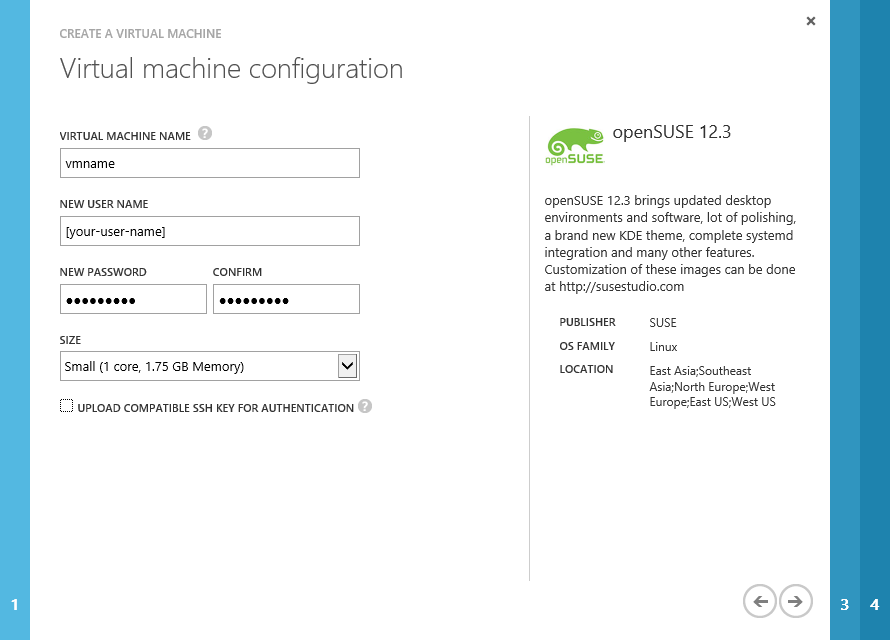
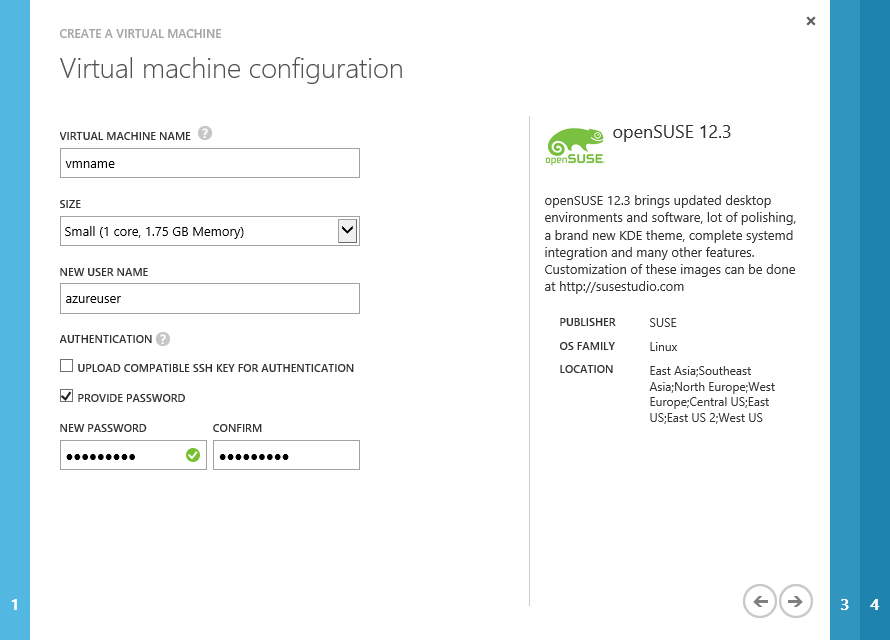
Updated LAMP instructions

diff --git a/HOL.md b/HOL.md
@@ -53,7 +53,6 @@ In this exercise, you will learn how to provision a Linux Virtual Machine in the
 
 1. Open Internet Explorer and browse [https://manage.windowsazure.com](https://manage.windowsazure.com) to enter the Windows Azure portal. Then, log in with your credentials.
 1. In the menu located at the bottom, select **Compute** | **New Virtual Machine | From Gallery** to start creating a new virtual machine.
-
 	 
 	![Creating a new Virtual Machine](Images/creating-a-new-virtual-machine.png?raw=true)
 
@@ -65,9 +64,9 @@ In this exercise, you will learn how to provision a Linux Virtual Machine in the
 	 
 	_Selecting OpenSUSE from the image list_
 
-1. In the **Virtual machine Configuration** page, enter a **Virtual Machine Name**, provide a user name for the **New User Name** field and a password for the **New Password** and **Confirm Password** fields. Lastly, set the Virtual Machine **Size** to _Small_ and click **Next** to continue.
+1. In the **Virtual Machine Configuration** page, enter a **Virtual Machine Name**. In the **Authentication** section, uncheck **Upload compatible ssh key for authentication** and check **Provide password**. Provide a password for the **New Password** and **Confirm Password** fields. Lastly, set the Virtual Machine **Size** to _Small_ and click **Next** to continue.
 
-	![Configuring a Custom VM](Images/creating-a-vm-configuration.png?raw=true)	
+	![Configuring a Custom Virtual Machine](Images/creating-a-vm-configuration.png?raw=true)	
 	 
 	_Creating a Virtual Machine - Configuration_
  
@@ -83,7 +82,7 @@ In this exercise, you will learn how to provision a Linux Virtual Machine in the
  
 1. In the **Virtual Machine Options** page, click the button to create a new Virtual Machine.
 
-	![Creating a VM - VM Options](Images/creating-a-vm--vm-options.png?raw=true "Creating a VM - VM Options")
+	![Creating a VM - VM Options](Images/creating-a-vm--vm-options.png?raw=true "Creating a Virtual Machine - Virtual Machine Options")
 
 	_Creating a Virtual Machine - Virtual Machine Options_
  
@@ -167,90 +166,70 @@ In this exercise, you will learn how to install and configure a Web Server in th
 
 In this task, you will install and configure an Apache HTTP Server and MySQL Database Management System.
 
-1. Install **Yast2**. In the terminal, execute the following commands to install the required packages.
+1. In the terminal, execute the following commands to install the required packages.
 
 	````Linux
-	zypper install yast2
-	zypper install yast2-ncurses
-	zypper install yast2-ncurses-pkg
-	zypper install yast2-qt
-	zypper install yast2-gtk
-	zypper install yast2-packager
-	zypper install yast2-network
-	zypper install yast2-http-server
-	zypper install yast2-runlevel
+	zypper install -t pattern lamp_server
 	````
 
-	>**Note**: If you get the following prompt "Do you want to reject the key, trust temporarily, or trust always? [r/t/a/?]", press a and then enter.
+	>**Note**: If you get the following prompt "Do you want to reject the key, trust temporarily, or trust always? [r/t/a/?]", press a and then enter. Pattern Lamp server installs only the needed packages for Lamp server.
 
-1. To install the prerequisites for Drupal you will use **Yast2** to automatically install Apache and MySQL with their dependencies. In the terminal, execute **Yast2**. This will open the **Yast2** application.
+1. Install the following packages in order to run PHP, MySQL (MariaDB distribution) and Apache2 in openSUSE.
 
 	````Linux
-	yast2
+	zypper install apache2 apache2-doc apache2-mod_php5 mariadb php5-gd php-db php5-mysql php5-json php5-dom php5-mbstring 
 	````
 
-1. Using the arrow keys from your keyboard, select **Software**, press the right arrow and select **Software Management** and hit **ENTER**.
+1. In order to start MySQL service, execute the following commands.
 
-	![YaST2 Control Center](Images/yast2-control-center.png?raw=true)
+	````Linux
+	systemctl enable mysql.service 
+	systemctl start mysql.service
+	````
 
-	_Software Management in YaST2_
+1. Execute the following commands in order to start Apache too.
 
-1. Press **ALT+F** to change the Filter type and select **Patterns**.
+	````Linux
+	systemctl enable apache2.service
+	systemctl start apache2.service
+	````
 
-	![Selecting the Patterns Filter](Images/selecting-the-patterns-filter.png?raw=true)
+	![Starting Apache and MySQL service](images/starting-apache-and-mysql-service.png?raw=true "Starting Apache and MySQL service")
 
-	_Selecting the Patterns Filter_
+	_Starting Apache and MySQL service_
 
-1. Scroll down the options until you find **Web and LAMP Server**. Press **ENTER** to select it, then press **ALT+T**, select **All listed packages...** and **Install All**.
 
-	>**NOTE**: When pressing enter you will see a plus beside Web and Lamp Server on the left side of the screen 
+#### Task 2 - Validating Apache and MySQL are running ####
 
-	![Installing Web and LAMP Server](Images/installing-web-and-lamp-server.png?raw=true)
+In this task you will check the status of MySQL and Apache service.
 
-	_Installing Web and LAMP Server_
+1. If not open, open ssl client and connect to the Virtual Machine
 
-1. Press **ALT+A** to start the installation. Press **ENTER** when prompted for confirmation.
-
-1. Once the installation is completed, the program will take you back to the main menu. Enter again the **Software Management**. Type **php5-json** to search for this package and hit **ENTER** to select it. Press **ALT+A** to start the installation.
-
-	![Installing PHP extensions](Images/installing-php-extensions.png?raw=true)
-
-	_Installing PHP extensions_
-
-1. Back to the main menu, press the left arrow key and select **Network Services**. Press the right arrow key, select **HTTP Server** and press **ENTER**.
-
-	![Configuring HTTP Server](Images/configuring-http-server.png?raw=true)
+1. Run the following command to check MySQL Service status
 	
-	_Configuring HTTP Server_
+	````Linux
+	service mysql status 
+	````
 
-1. Follow the Wizard steps pressing **F10** on each step to complete the configuration using the default values.
+	![MySQL Service Status](images/mysql-service-status.png?raw=true "MySQL Service Status")
 
-	![HTTP Service Setup Wizard](Images/http-service-setup-wizard.png?raw=true "HTTP Service Setup Wizard")
+	_MySQL Service Status_
 
-	_HTTP Service Setup Wizard_
+1. Run the following command to check Apache Service status
+	
+	````Linux
+	service apache2 status 
+	````
 
-1. Select **Network Services** and select **HTTP Server** again. Press **ALT+E** to enable the HTTP services and then press **ALT+F** to confirm the changes.
+	![Apache Server Status](images/apache-server-status.png?raw=true "Apache Server Status")
 
-	![Enabling HTTP service](Images/enabling-http-service.png?raw=true)
+	_Apache Server Status_
 
-	_Enabling HTTP service_
+1. Open **Internet Explorer** and browse the **DNS name** of the Virtual Machine to ensure apache is accessible through the Web.
+	
+	![Browser checking status](images/browser-checking-status.png?raw=true "Browser checking status")
 
-1. Back to the main menu, press the left arrow key and select **System** from the menu options. Press the right arrow and select **System Services (Runlevel)** and press **ENTER**.
-
-	![Configuring System Services](Images/configuring-system-services.png?raw=true)
-
-	_Configuring System Services_
-
-1. Scroll down until you find **mysql** and press **ALT+E** to enable the service. Wait until the service is running and press **Enter** on the confirmation message.
-
-	![Enabling MySQL service](Images/enabling-mysql-service.png?raw=true)
-
-	_Enabling MySQL service_
-
-
-1. Find **apache2** and press **ALT+E** to enable the service too. Wait until the service is running and press **Enter** on the confirmation message. Press **F10** to save the settings.
-
-1. Press **ALT+Q** to exit **YaST2**.
+	_Apache working_
 
 ---
 
